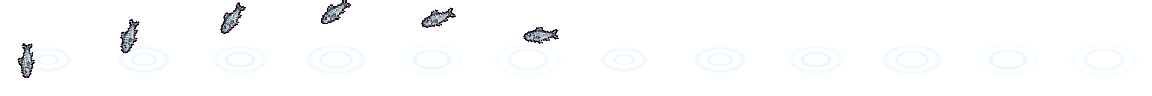
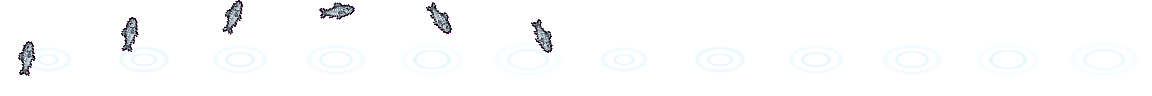
v1.04: peixes saltam de frente; scripts com versao

diff --git a/index.html b/index.html
@@ -5,7 +5,7 @@
   <meta name="viewport" content="width=device-width, initial-scale=1" />
   <title>Valdora — RPG em pixel art</title>
   <meta name="description" content="Valdora: um RPG 2D original em pixel art para navegador. Colete, forje, cozinhe, enfrente chefes e defenda Lumeira." />
-  <link rel="stylesheet" href="css/style.css" />
+  <link rel="stylesheet" href="css/style.css?v=202611020843" />
 </head>
 <body>
   <!-- Lobby / site -->
@@ -105,43 +105,43 @@
     </div>
   </section>
 
-  <script src="js/assets.js"></script>
-  <script src="js/data.js"></script>
-  <script src="js/terrain.js"></script>
-  <script src="js/audio.js"></script>
-  <script src="js/path.js"></script>
-  <script src="js/fx.js"></script>
-  <script src="js/ambient.js"></script>
-  <script src="js/lighting.js"></script>
-  <script src="js/rules.js"></script>
-  <script src="js/anim_data.js"></script>
-  <script src="js/anim3d_data.js"></script>
-  <script src="js/ui.js"></script>
-  <script src="js/quests.js"></script>
-  <script src="js/dialogs.js"></script>
-  <script src="js/render.js"></script>
-  <script src="js/hud.js"></script>
-  <script src="js/mobs.js"></script>
-  <script src="js/world.js"></script>
-  <script src="js/crafting.js"></script>
-  <script src="js/gather.js"></script>
-  <script src="js/shop.js"></script>
-  <script src="js/input.js"></script>
-  <script src="js/pointer.js"></script>
-  <script src="js/camera.js"></script>
-  <script src="js/actors.js"></script>
-  <script src="js/outfit.js"></script>
-  <script src="js/hero.js"></script>
-  <script src="js/scenery.js"></script>
-  <script src="js/overlay.js"></script>
-  <script src="js/events.js"></script>
-  <script src="js/shrine.js"></script>
-  <script src="js/dlgactions.js"></script>
-  <script src="js/daily.js"></script>
-  <script src="js/home.js"></script>
-  <script src="js/scene.js"></script>
-  <script src="js/campaign.js"></script>
-  <script src="js/game.js"></script>
-  <script src="js/lobby.js"></script>
+  <script src="js/assets.js?v=202611020843"></script>
+  <script src="js/data.js?v=202611020843"></script>
+  <script src="js/terrain.js?v=202611020843"></script>
+  <script src="js/audio.js?v=202611020843"></script>
+  <script src="js/path.js?v=202611020843"></script>
+  <script src="js/fx.js?v=202611020843"></script>
+  <script src="js/ambient.js?v=202611020843"></script>
+  <script src="js/lighting.js?v=202611020843"></script>
+  <script src="js/rules.js?v=202611020843"></script>
+  <script src="js/anim_data.js?v=202611020843"></script>
+  <script src="js/anim3d_data.js?v=202611020843"></script>
+  <script src="js/ui.js?v=202611020843"></script>
+  <script src="js/quests.js?v=202611020843"></script>
+  <script src="js/dialogs.js?v=202611020843"></script>
+  <script src="js/render.js?v=202611020843"></script>
+  <script src="js/hud.js?v=202611020843"></script>
+  <script src="js/mobs.js?v=202611020843"></script>
+  <script src="js/world.js?v=202611020843"></script>
+  <script src="js/crafting.js?v=202611020843"></script>
+  <script src="js/gather.js?v=202611020843"></script>
+  <script src="js/shop.js?v=202611020843"></script>
+  <script src="js/input.js?v=202611020843"></script>
+  <script src="js/pointer.js?v=202611020843"></script>
+  <script src="js/camera.js?v=202611020843"></script>
+  <script src="js/actors.js?v=202611020843"></script>
+  <script src="js/outfit.js?v=202611020843"></script>
+  <script src="js/hero.js?v=202611020843"></script>
+  <script src="js/scenery.js?v=202611020843"></script>
+  <script src="js/overlay.js?v=202611020843"></script>
+  <script src="js/events.js?v=202611020843"></script>
+  <script src="js/shrine.js?v=202611020843"></script>
+  <script src="js/dlgactions.js?v=202611020843"></script>
+  <script src="js/daily.js?v=202611020843"></script>
+  <script src="js/home.js?v=202611020843"></script>
+  <script src="js/scene.js?v=202611020843"></script>
+  <script src="js/campaign.js?v=202611020843"></script>
+  <script src="js/game.js?v=202611020843"></script>
+  <script src="js/lobby.js?v=202611020843"></script>
 </body>
 </html>

diff --git a/tests.html b/tests.html
@@ -16,41 +16,41 @@
 <body>
   <h1>Valdora — testes de lógica, dados e equilíbrio</h1>
   <div id="out">Rodando…</div>
-  <script src="js/assets.js"></script>
-  <script src="js/data.js"></script>
-  <script src="js/rules.js"></script>
-  <script src="js/anim_data.js"></script>
-  <script src="js/anim3d_data.js"></script>
-  <script src="js/terrain.js"></script>
-  <script src="js/path.js"></script>
-  <script src="js/fx.js"></script>
-  <script src="js/ambient.js"></script>
-  <script src="js/lighting.js"></script>
-  <script src="js/ui.js"></script>
-  <script src="js/quests.js"></script>
-  <script src="js/dialogs.js"></script>
-  <script src="js/render.js"></script>
-  <script src="js/hud.js"></script>
-  <script src="js/mobs.js"></script>
-  <script src="js/world.js"></script>
-  <script src="js/crafting.js"></script>
-  <script src="js/gather.js"></script>
-  <script src="js/shop.js"></script>
-  <script src="js/input.js"></script>
-  <script src="js/pointer.js"></script>
-  <script src="js/camera.js"></script>
-  <script src="js/actors.js"></script>
-  <script src="js/outfit.js"></script>
-  <script src="js/hero.js"></script>
-  <script src="js/scenery.js"></script>
-  <script src="js/overlay.js"></script>
-  <script src="js/events.js"></script>
-  <script src="js/shrine.js"></script>
-  <script src="js/dlgactions.js"></script>
-  <script src="js/scene.js"></script>
-  <script src="js/campaign.js"></script>
-  <script src="js/daily.js"></script>
-  <script src="js/home.js"></script>
-  <script src="js/tests.js"></script>
+  <script src="js/assets.js?v=202611020843"></script>
+  <script src="js/data.js?v=202611020843"></script>
+  <script src="js/rules.js?v=202611020843"></script>
+  <script src="js/anim_data.js?v=202611020843"></script>
+  <script src="js/anim3d_data.js?v=202611020843"></script>
+  <script src="js/terrain.js?v=202611020843"></script>
+  <script src="js/path.js?v=202611020843"></script>
+  <script src="js/fx.js?v=202611020843"></script>
+  <script src="js/ambient.js?v=202611020843"></script>
+  <script src="js/lighting.js?v=202611020843"></script>
+  <script src="js/ui.js?v=202611020843"></script>
+  <script src="js/quests.js?v=202611020843"></script>
+  <script src="js/dialogs.js?v=202611020843"></script>
+  <script src="js/render.js?v=202611020843"></script>
+  <script src="js/hud.js?v=202611020843"></script>
+  <script src="js/mobs.js?v=202611020843"></script>
+  <script src="js/world.js?v=202611020843"></script>
+  <script src="js/crafting.js?v=202611020843"></script>
+  <script src="js/gather.js?v=202611020843"></script>
+  <script src="js/shop.js?v=202611020843"></script>
+  <script src="js/input.js?v=202611020843"></script>
+  <script src="js/pointer.js?v=202611020843"></script>
+  <script src="js/camera.js?v=202611020843"></script>
+  <script src="js/actors.js?v=202611020843"></script>
+  <script src="js/outfit.js?v=202611020843"></script>
+  <script src="js/hero.js?v=202611020843"></script>
+  <script src="js/scenery.js?v=202611020843"></script>
+  <script src="js/overlay.js?v=202611020843"></script>
+  <script src="js/events.js?v=202611020843"></script>
+  <script src="js/shrine.js?v=202611020843"></script>
+  <script src="js/dlgactions.js?v=202611020843"></script>
+  <script src="js/scene.js?v=202611020843"></script>
+  <script src="js/campaign.js?v=202611020843"></script>
+  <script src="js/daily.js?v=202611020843"></script>
+  <script src="js/home.js?v=202611020843"></script>
+  <script src="js/tests.js?v=202611020843"></script>
 </body>
 </html>

diff --git a/js/lobby.js b/js/lobby.js
@@ -18,6 +18,7 @@
       "Passar por cima de um item no chão já pega (antes só parando em cima)",
       "Segure o botão esquerdo do mouse no chão: o herói vai andando atrás do cursor e, ao soltar, segue até o ponto onde você soltou",
       "Plantas de coleta redesenhadas para combinar com cada região",
+      "Os peixes dos cardumes saltam de frente (antes saltavam de costas)",
       "Fogueira, braseiro e tocha: só a chama se mexe"]],
     ["v1.03", "Arqueiro, equipamento de verdade e plantas", ["Novo herói: o Arqueiro (no lugar do Marinheiro) atira flechas de longe; com arco equipado, qualquer herói atira",
       "Todos começam só de roupa de baixo; o que você veste aparece no personagem (camisa, placas, calça, botas, capuz, elmo, capa, aljava e arma)",

diff --git a/vitrine.html b/vitrine.html
@@ -44,8 +44,8 @@
       <div id="rows"></div>
     </aside>
   </main>
-  <script src="js/anim_data.js"></script>
-  <script src="js/anim3d_data.js"></script>
+  <script src="js/anim_data.js?v=202611020843"></script>
+  <script src="js/anim3d_data.js?v=202611020843"></script>
   <script>
   // Mostra as folhas de animação feitas no Blender (window.ANIM3D) tocando como no jogo.
   const D = window.ANIM3D || {};

diff --git a/CHANGELOG.md b/CHANGELOG.md
@@ -31,6 +31,9 @@ Mudanças de cada rodada, da mais nova para a mais antiga. O README descreve o j
 - **Ações de qualquer ângulo:** encostar vale na diagonal (`adjacent`/`adjRect`) para coletar, cozinhar, falar, abrir e lutar; na
   diagonal, golpe só se um dos tiles do meio não for parede/água. Monstros andam e atacam na diagonal (sem cortar quina) e o passo
   diagonal dura √2; moradores passeiam na diagonal. Saiu a espera da "dança da diagonal" (rodadas 48/83).
+- **Peixes saltando de frente:** o salto que fica tocando nos cardumes (`fx_fishspot`, `fx_fishspot_deep`) usava o ícone virado para a
+  esquerda num arco para a direita (saltava de costas); agora espelha o peixe e o nariz segue a tangente do arco, como o `fish_jump`.
+- **Publicação:** `tools/publicar.ps1` põe `?v=<data>` nos scripts e no estilo das páginas, para o navegador não misturar versões.
 - **Fogo:** fogueira, braseiro e tocha deixam pedras, lenha e ferro iguais à arte parada; só a chama e as fagulhas mudam (`fire_only`).
 - **Ctrl + clique (modo de ataque):** segurando Ctrl o cursor vira mira e o monstro mais perto do ponto (até 4 tiles) ganha contorno
   vermelho; o clique ataca esse monstro (`nearestMob`). No Mac, Ctrl+clique chega como clique direito e também vale.
